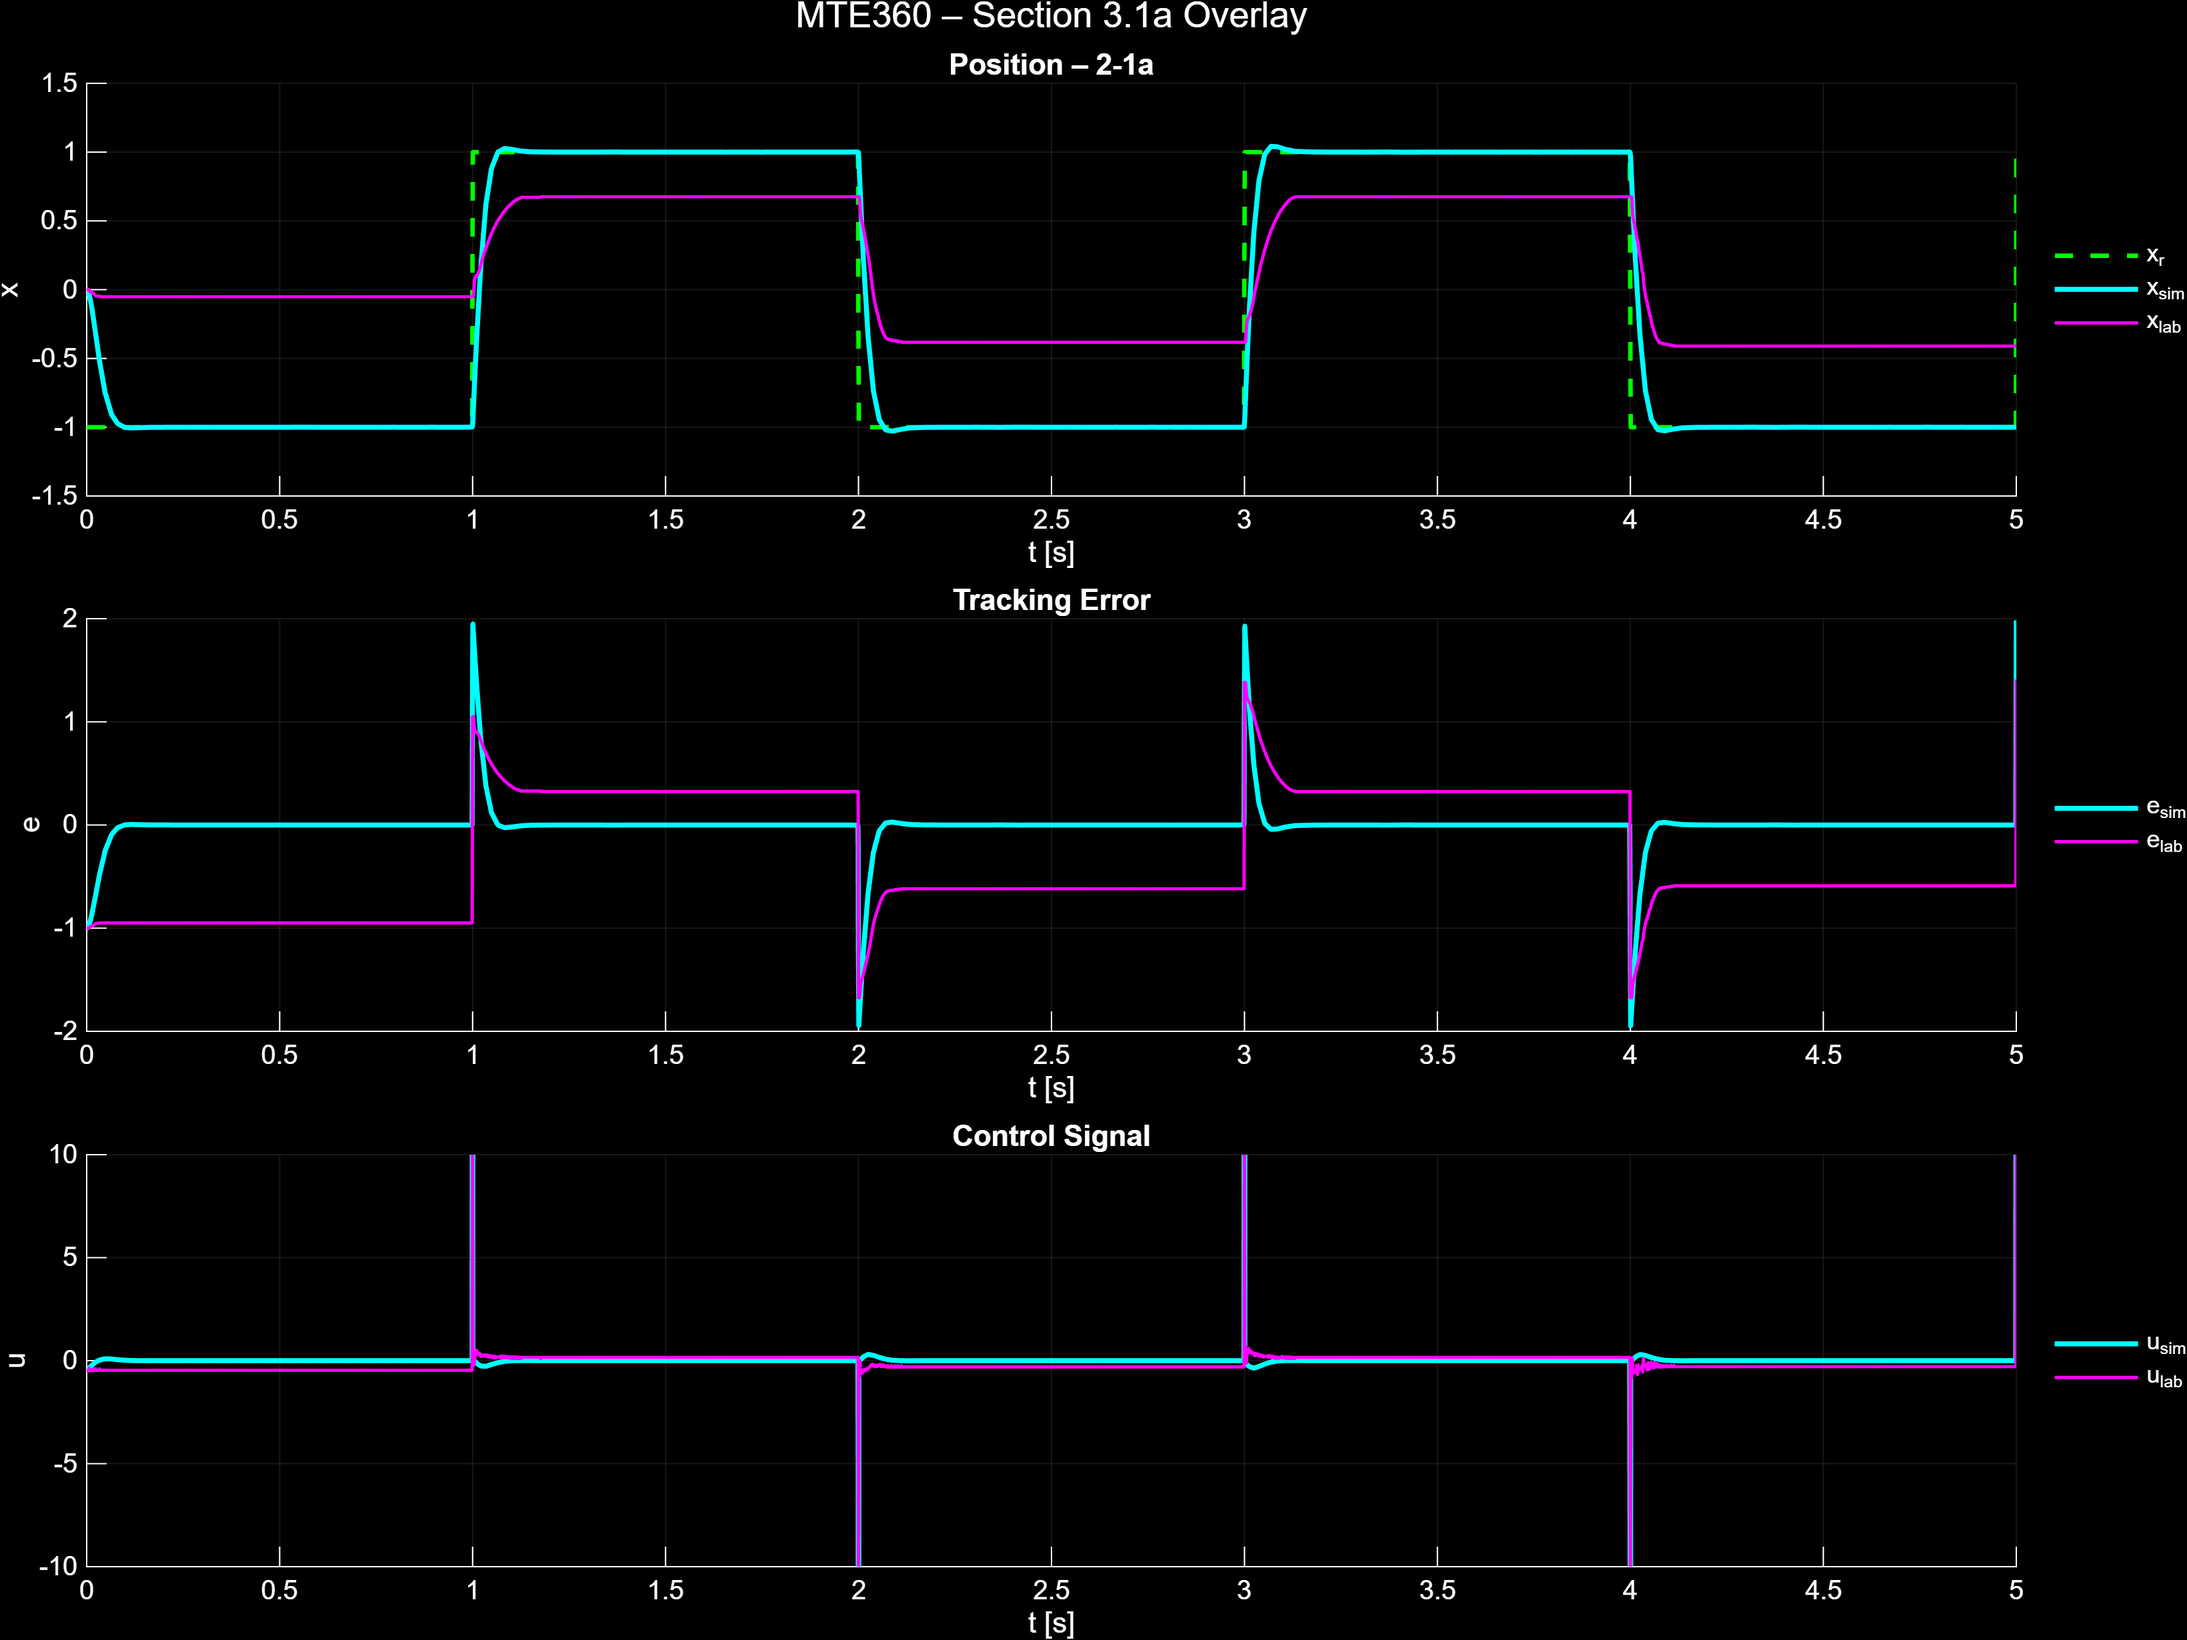
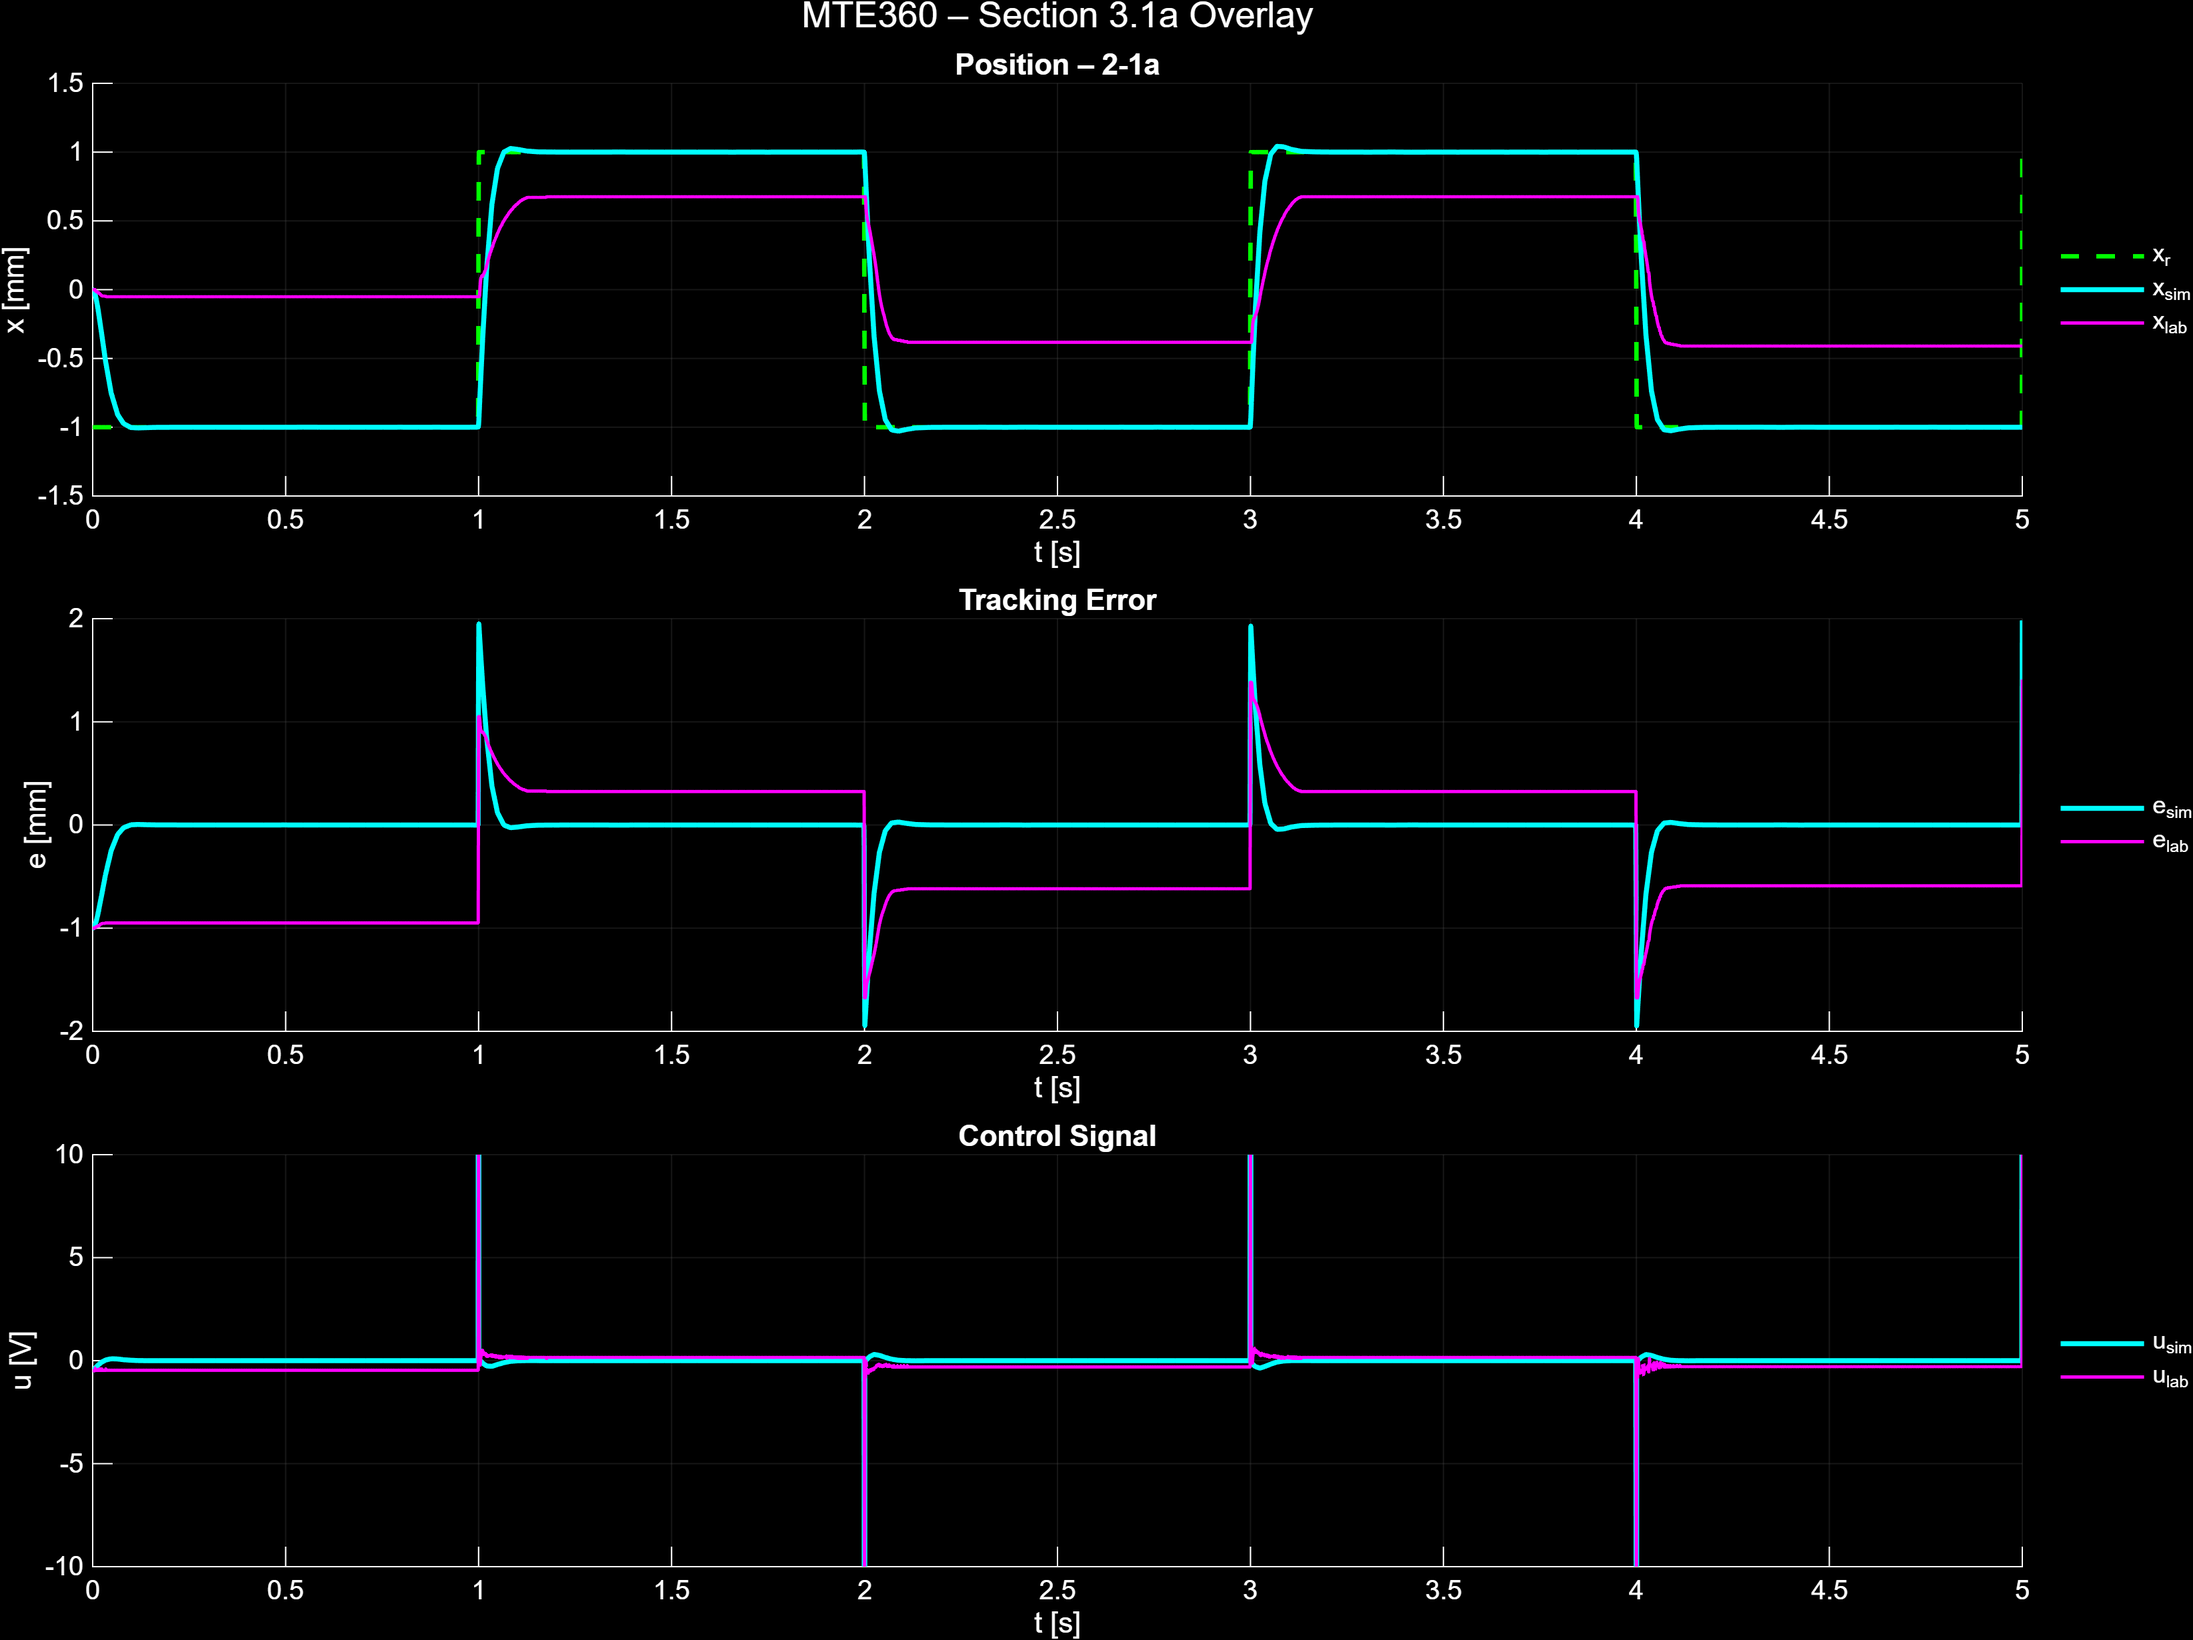
Initial Commit of 3-1f Code

diff --git a/three_1_a.m b/three_1_a.m
@@ -1,8 +1,9 @@
 clc; clear; close all;
 % --- CONFIG ----
-model = 'PD_controller';  % <-- replace with your model name (the file that contains Figure 2)
+model_PD = 'PD_controller';  % <-- replace with your model name (the file that contains Figure 2)
+model_distrubance = 'PD_w_disturbance';
 baseDir = fileparts(mfilename('fullpath'));
-cases  = {'2-1a','2-1b'};     % will run both and make two figures
+cases  = {'2-1a','2-1b','2-1b'};     % will run all and make three figures
 % ----------------
 
 for k = 1:numel(cases)
@@ -24,9 +25,16 @@ for k = 1:numel(cases)
     assignin('base','xr_simin',xr_simin);  % the Inport block named xr_simin will read this
 
     % 3) Run Simulink for the same time span as the data
-    load_system(model);
     stopTime = num2str(Xr(end,1));
-    simOut   = sim(model, 'StopTime', stopTime, 'ReturnWorkspaceOutputs', 'on');
+    if k ~= 3
+        figure_title = ['MTE360 3.1a – ' caseName];
+        load_system(model_PD);
+        simOut   = sim(model_PD, 'StopTime', stopTime, 'ReturnWorkspaceOutputs', 'on');
+    else
+        figure_title = ['MTE360 3.1f – ' caseName];
+        load_system(model_distrubance);
+        simOut   = sim(model_distrubance, 'StopTime', stopTime, 'ReturnWorkspaceOutputs', 'on');
+    end
 
     % 4) Extract logged signals (N×2: [t  value])
     x_sim  = simOut.x_sim;
@@ -38,7 +46,7 @@ for k = 1:numel(cases)
     tL = X(:,1);       % lab time
     
     % 5) Dark figure and three stacked axes
-    f  = figure('Name',['MTE360 3.1a – ' caseName], 'Color','k', ...
+    f  = figure('Name',figure_title , 'Color','k', ...
                 'Position',[100 100 1100 800]);
     tl = tiledlayout(3,1,'TileSpacing','compact','Padding','compact');
     title(tl,'MTE360 – Section 3.1a Overlay','Color','w','FontWeight','normal');
@@ -51,7 +59,7 @@ for k = 1:numel(cases)
     plot(tS, xr_sim(:,2), '--', 'Color',[0 1 0], 'LineWidth',1.6);   % reference in green
     plot(tS, x_sim(:,2),  'Color',[0 1 1], 'LineWidth',1.8);         % sim x in cyan
     plot(tL, X(:,2),      'Color',[1 0 1], 'LineWidth',1.2);         % lab x in magenta
-    grid on; xlabel('t [s]'); ylabel('x'); title(['Position – ' caseName],'Color','w');
+    grid on; xlabel('t [s]'); ylabel('x [mm]'); title(['Position – ' caseName],'Color','w');
     legend({'x_r','x_{sim}','x_{lab}'},'Location','eastoutside','TextColor','w','Box','off');
     darken(ax1);
     
@@ -59,7 +67,7 @@ for k = 1:numel(cases)
     ax2 = nexttile; hold(ax2,'on');
     plot(tS, e_sim(:,2), 'Color',[0 1 1], 'LineWidth',1.8);           % sim e in cyan
     plot(tL, E_lab,      'Color',[1 0 1], 'LineWidth',1.2);           % lab e in magenta
-    grid on; xlabel('t [s]'); ylabel('e'); title('Tracking Error','Color','w');
+    grid on; xlabel('t [s]'); ylabel('e [mm]'); title('Tracking Error','Color','w');
     legend({'e_{sim}','e_{lab}'},'Location','eastoutside','TextColor','w','Box','off');
     darken(ax2);
     
@@ -67,13 +75,18 @@ for k = 1:numel(cases)
     ax3 = nexttile; hold(ax3,'on');
     plot(tS, u_sim(:,2), 'Color',[0 1 1], 'LineWidth',1.8);           % sim u in cyan
     plot(tL, U(:,2),      'Color',[1 0 1], 'LineWidth',1.2);          % lab u in magenta
-    grid on; xlabel('t [s]'); ylabel('u'); title('Control Signal','Color','w');
+    grid on; xlabel('t [s]'); ylabel('u [V]'); title('Control Signal','Color','w');
     legend({'u_{sim}','u_{lab}'},'Location','eastoutside','TextColor','w','Box','off');
     darken(ax3);
     
     % Save
-    outPng = fullfile(baseDir, sprintf('MTE360_3_1a_%s_overlay.png',caseName));
+    if k ~= 3
+        outPng = fullfile(baseDir, sprintf('MTE360_3_1a_%s_overlay.png',caseName));
+    else
+        outPng = fullfile(baseDir, sprintf('MTE360_3_1f_%s_overlay.png',caseName));
+    end
     exportgraphics(f,outPng,'Resolution',300,'BackgroundColor','black');
 
 
-end
+end 
+
